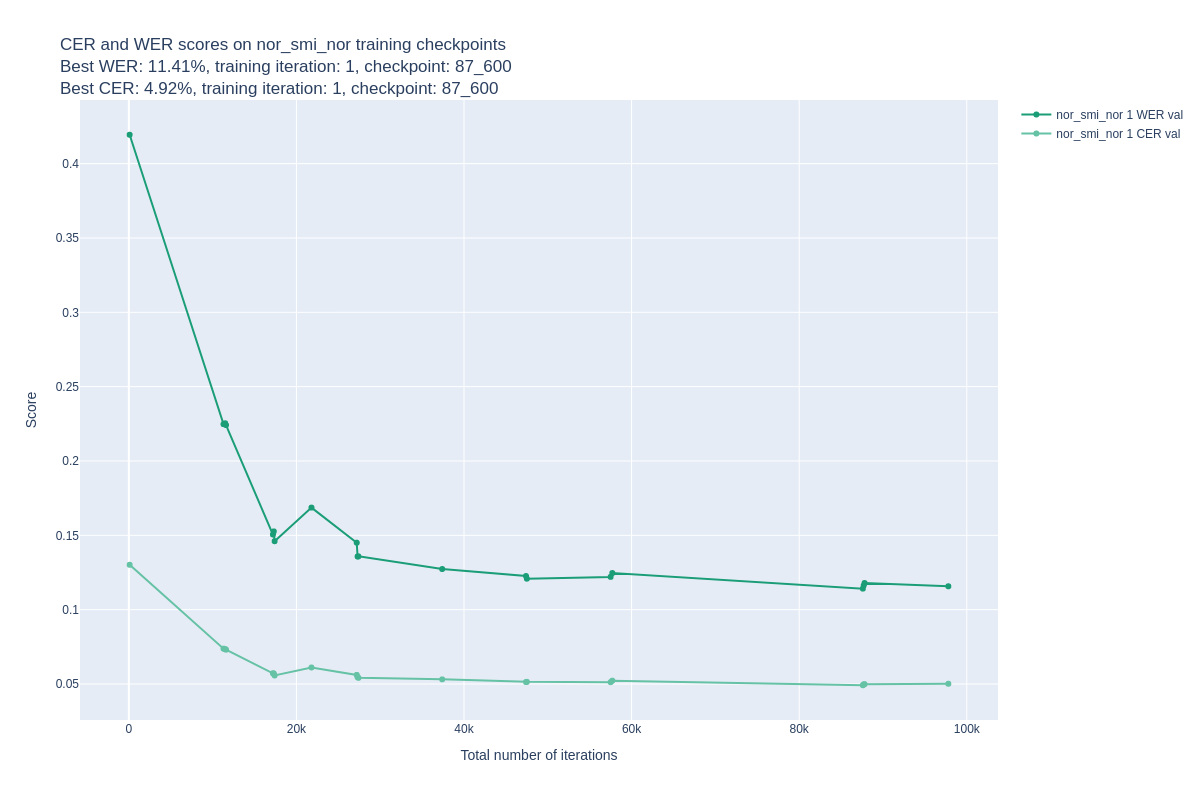
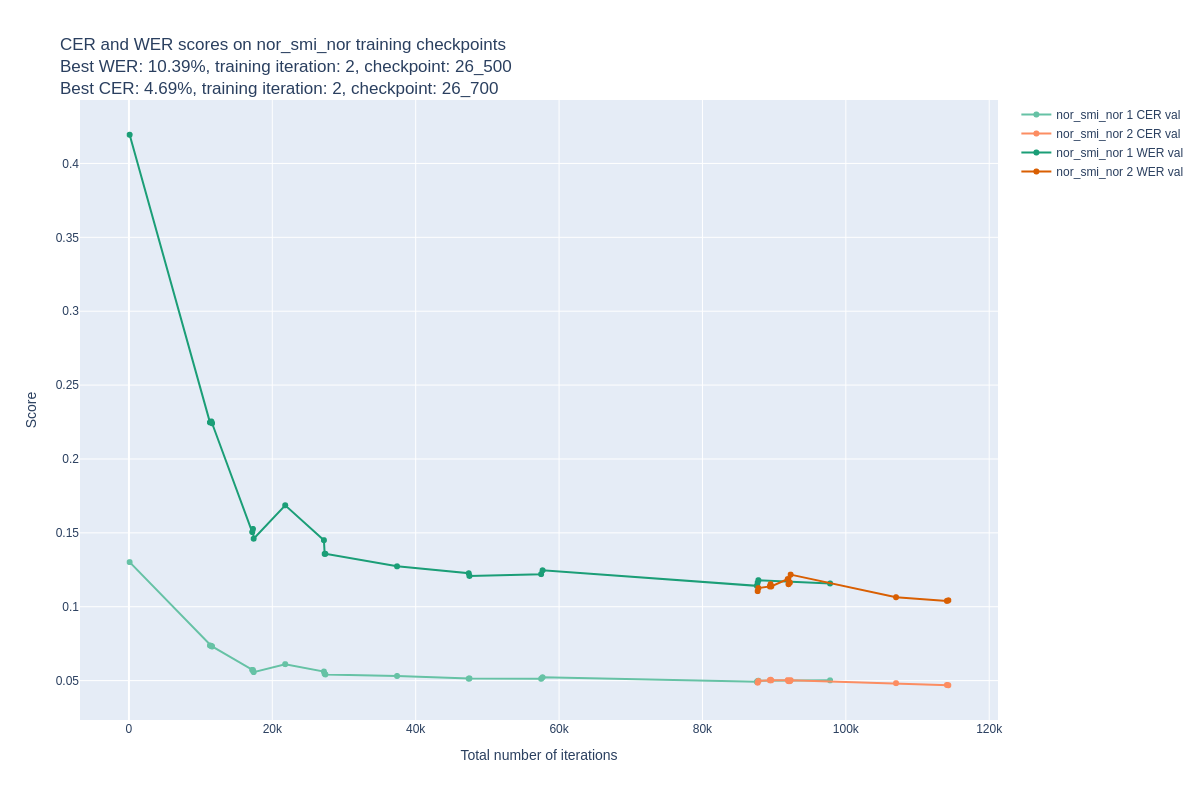
Fortsett trening av gt_smi+gt_nor

diff --git a/tesseract_models/README.md b/tesseract_models/README.md
@@ -12,7 +12,7 @@
 - a) fjerne linjene hvor bredden er mindre enn høyden
 - b) fjerne linjene hvor transkripsjonene er kortere enn 5 tegn
 
-
+a) gjøres for all data, b) gjøres kun for auto_smi
 
 ## Modeller
 
